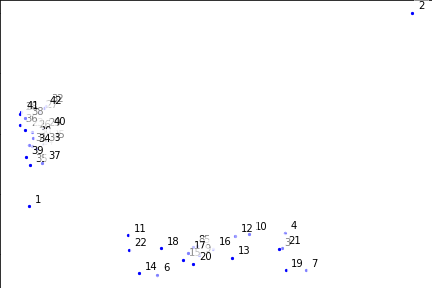
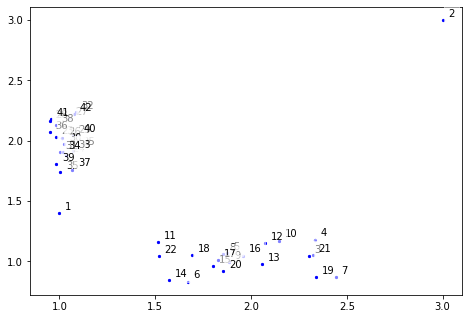
fix cropping of images

diff --git a/mknn/filtration.py b/mknn/filtration.py
@@ -96,11 +96,10 @@ class Filtration():
                 self.generators[0]]
         self.sizes = [len(g.representatives)/self.cloud.size for g in self.generators[0]]
 
-    def plot_persistence(self, name, filename):
+    def plot_persistence(self, filename):
         fig, ax = self.persistence_plot()
         
-        ax.title(name)
-        fig.savefig(filename)
+        fig.savefig(filename, bbox_tight = 'tight')
 
     def persistence_plot(self):
         self.compute_persistence()
@@ -109,7 +108,7 @@ class Filtration():
         outlierness = lifetimes/sizes
 
         fig = plt.figure(figsize = (8,6))
-        ax = fig.add_axes([0,0,1,1])
+        ax = fig.subplots()
         mappable = ax.scatter(lifetimes, sizes, c = lifetimes/sizes, cmap = "cool", zorder = 2)
 
         k = 1

diff --git a/README.md b/README.md
@@ -31,8 +31,7 @@ Then, you build a `Filtration` instance:
 import mknn
 filt = mknn.Filtration(data = data)
 ```
-Next, instruct the `Filtration` instance to build the simplicial complex and
-then to compute its homology:
+Next, instruct the `Filtration` instance to compute its persistent homology
 ```python
 filt.build_complex()
 filt.compute_persistent_homology()
